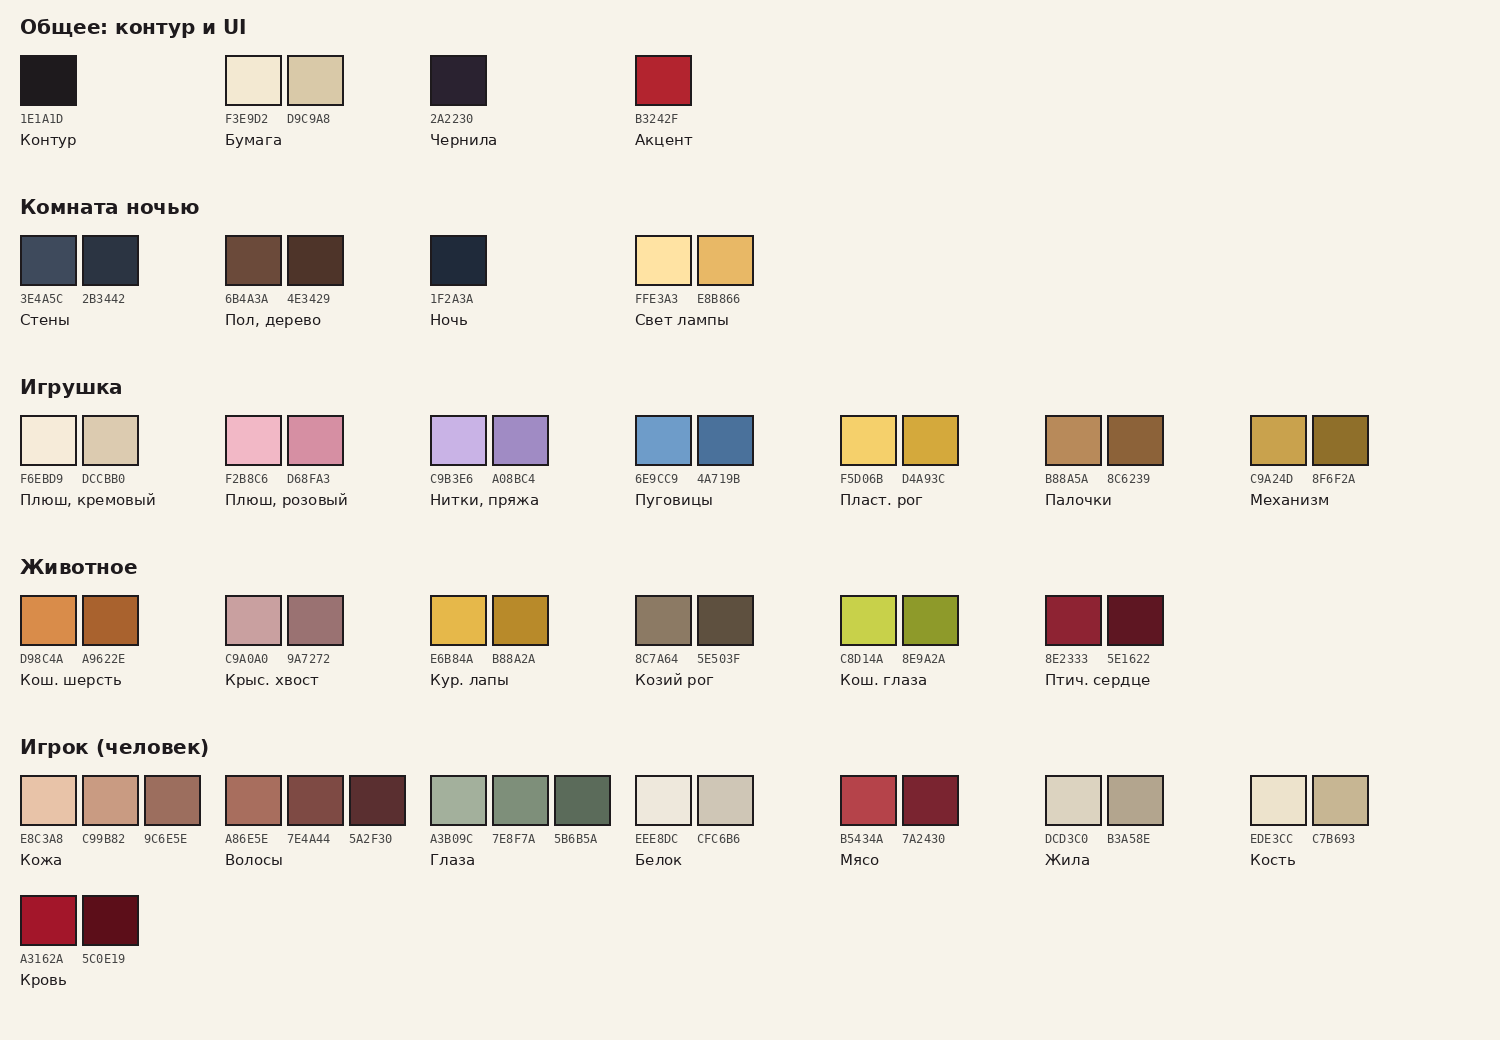
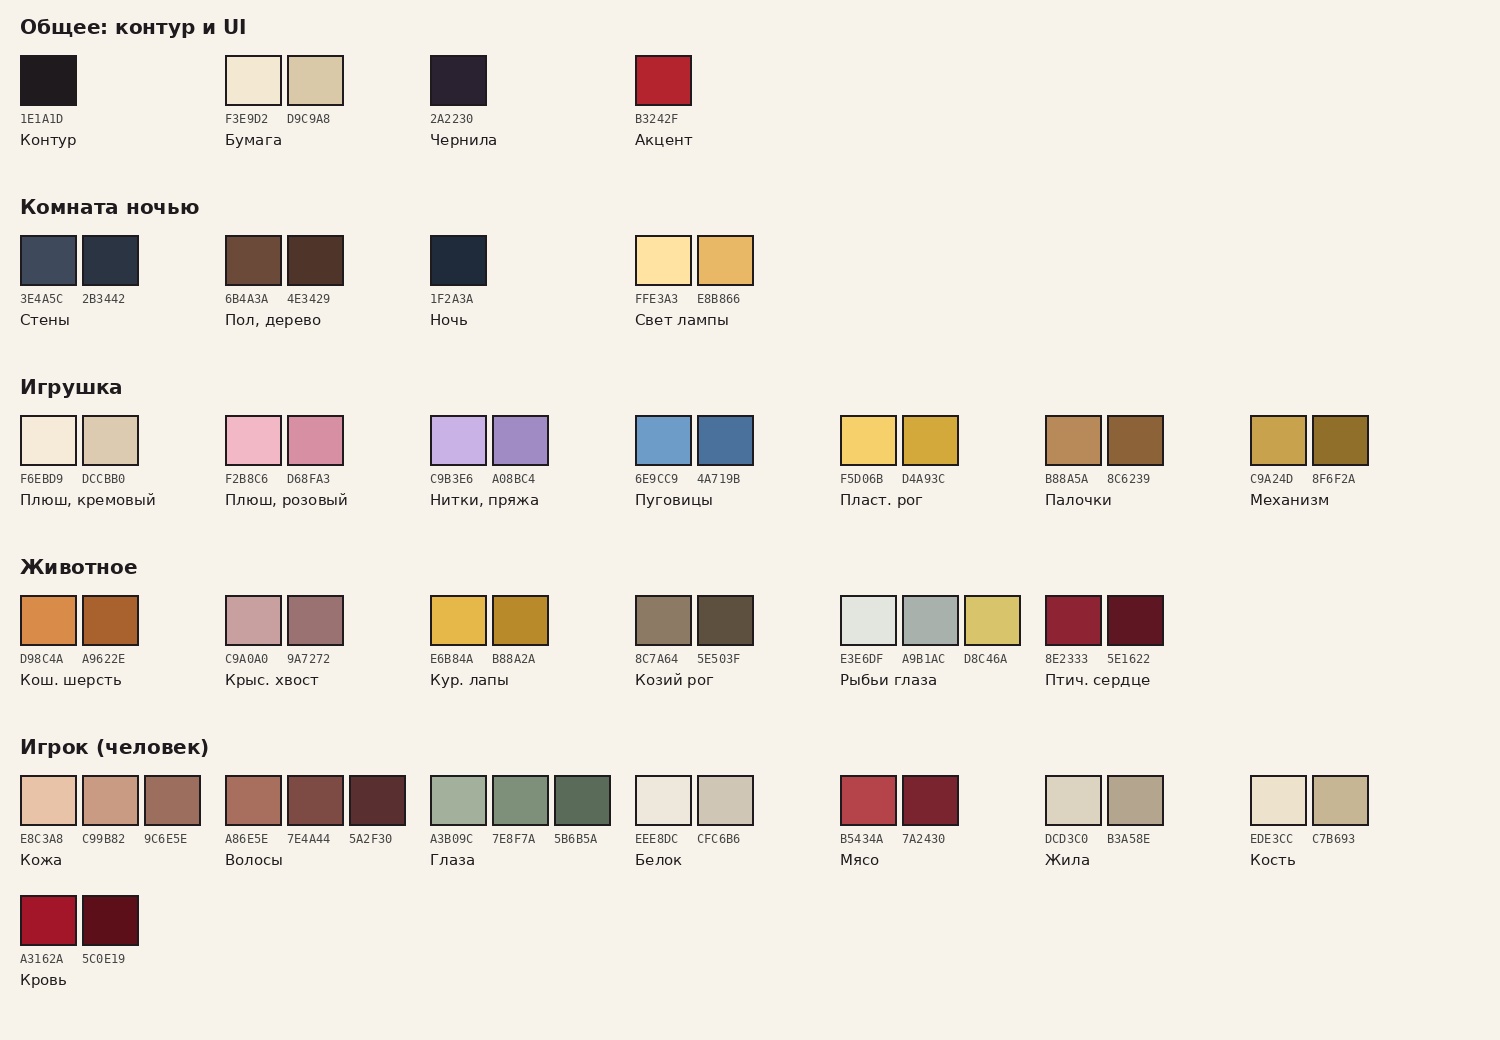
Глаза животного: рыбьи вместо кошачьих
Claude-Session: https://claude.ai/code/session_01LKgBkGGPJkmAsdqmSJKE8m

Changed region(s): [[0.552, 0.5538, 0.7053, 0.6769]]

diff --git a/docs/plan.md b/docs/plan.md
@@ -56,7 +56,7 @@
 | Ноги | палочки | куриные лапы | своя рука |
 | Хвост | пряжа | крысиный | своя жила |
 | Грива | нитки | кошачья шерсть | свой скальп |
-| Глаза | пуговицы | кошачьи (или рыбьи — открыто) | свой глаз |
+| Глаза | пуговицы | рыбьи | свой глаз |
 | Рог | пластиковый | козий | своё ребро |
 | Сердце | заводной механизм | птичье | своё сердце |
 
@@ -140,11 +140,11 @@
 | Грива | распустить шарф на кресле | вычесать кота щёткой | нож |
 | Хвост | клубок под ёлкой | мышеловка + сыр из холодильника | нож |
 | Рог | верхушка ёлки (табурет) | голова козла (табурет + отвёртка) | нож |
-| Глаза | пуговицы из коробки для шитья в комоде | кот / рыбы (сачок) | нож |
+| Глаза | пуговицы из коробки для шитья в комоде | рыбы из аквариума (сачок) | нож |
 | Ноги | ветки ёлки | куриные лапы из холодильника (разморозить) | нож |
 | Сердце | механизм из настенных часов | канарейка (открыть клетку кодом) | нож |
 
-Открытые вопросы: подходит ли новогодний сеттинг; судьба кота; глаза кошачьи или рыбьи.
+Открытые вопросы: подходит ли новогодний сеттинг; судьба кота (глаза теперь рыбьи, кот нужен только для шерсти).
 
 ## 0.9 Требования к графике — черновик (без комнаты)
 Раздел «Комната» допишется после карты экрана (0.5).

diff --git a/docs/texts.md b/docs/texts.md
@@ -74,7 +74,7 @@
 | | 2 | Козлу на стене рога больше ни к чему. | Цапові на стіні роги вже ні до чого. |
 | | 3 | Рёбер у тебя много. Одного не хватятся. | Ребер у тебе багато. Одного не хватяться. |
 | Глаза | 1 | Пуговицы лежат в шкатулке для шитья, в комоде. | Ґудзики лежать у скриньці для шиття, в комоді. |
-| | 2 | Кот смотрит на тебя. У него хорошие глаза. | Кіт дивиться на тебе. У нього гарні очі. |
+| | 2 | Рыбы в аквариуме не моргают. Им глаза ни к чему. | Риби в акваріумі не кліпають. Їм очі ні до чого. |
 | | 3 | Тебе хватит и одного. | Тобі вистачить і одного. |
 | Ноги | 1 | У ёлки много веток. | У ялинки багато гілок. |
 | | 2 | В холодильнике есть кое-что. Сначала разморозь. | У холодильнику є дещо. Спершу розморозь. |

diff --git a/docs/art-style.md b/docs/art-style.md
@@ -45,7 +45,7 @@
 | Крысиный хвост | `#C9A0A0`, тень `#9A7272` |
 | Куриные лапы | `#E6B84A`, тень `#B88A2A` |
 | Козий рог | `#8C7A64`, тень `#5E503F` |
-| Кошачьи глаза | `#C8D14A`, тень `#8E9A2A`, зрачок-щель — цвет контура |
+| Рыбьи глаза | `#E3E6DF`, тень `#A9B1AC`, ободок `#D8C46A`, круглый зрачок — цвет контура |
 | Птичье сердце | `#8E2333`, тень `#5E1622` |
 
 ### Части игрока (человек)
